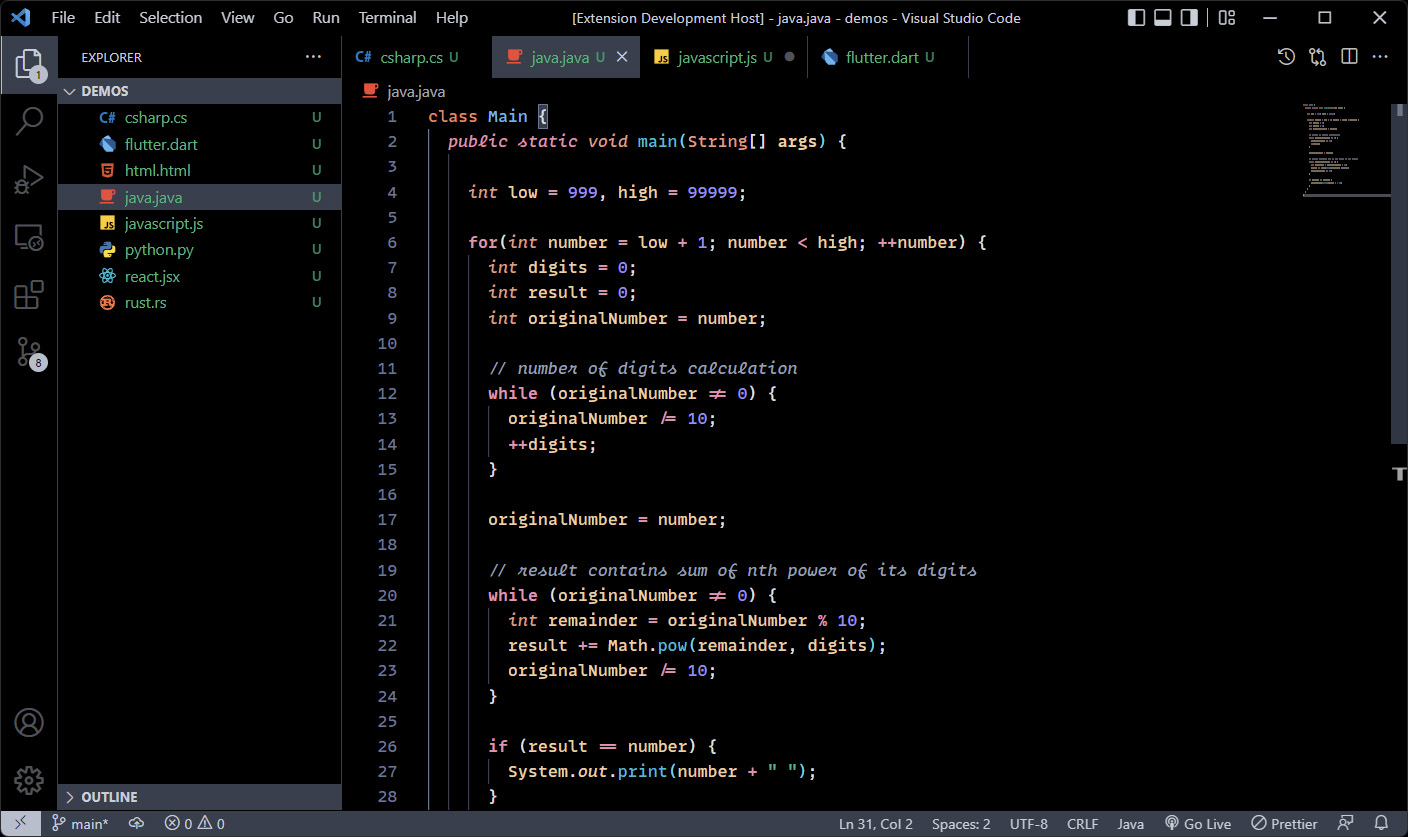
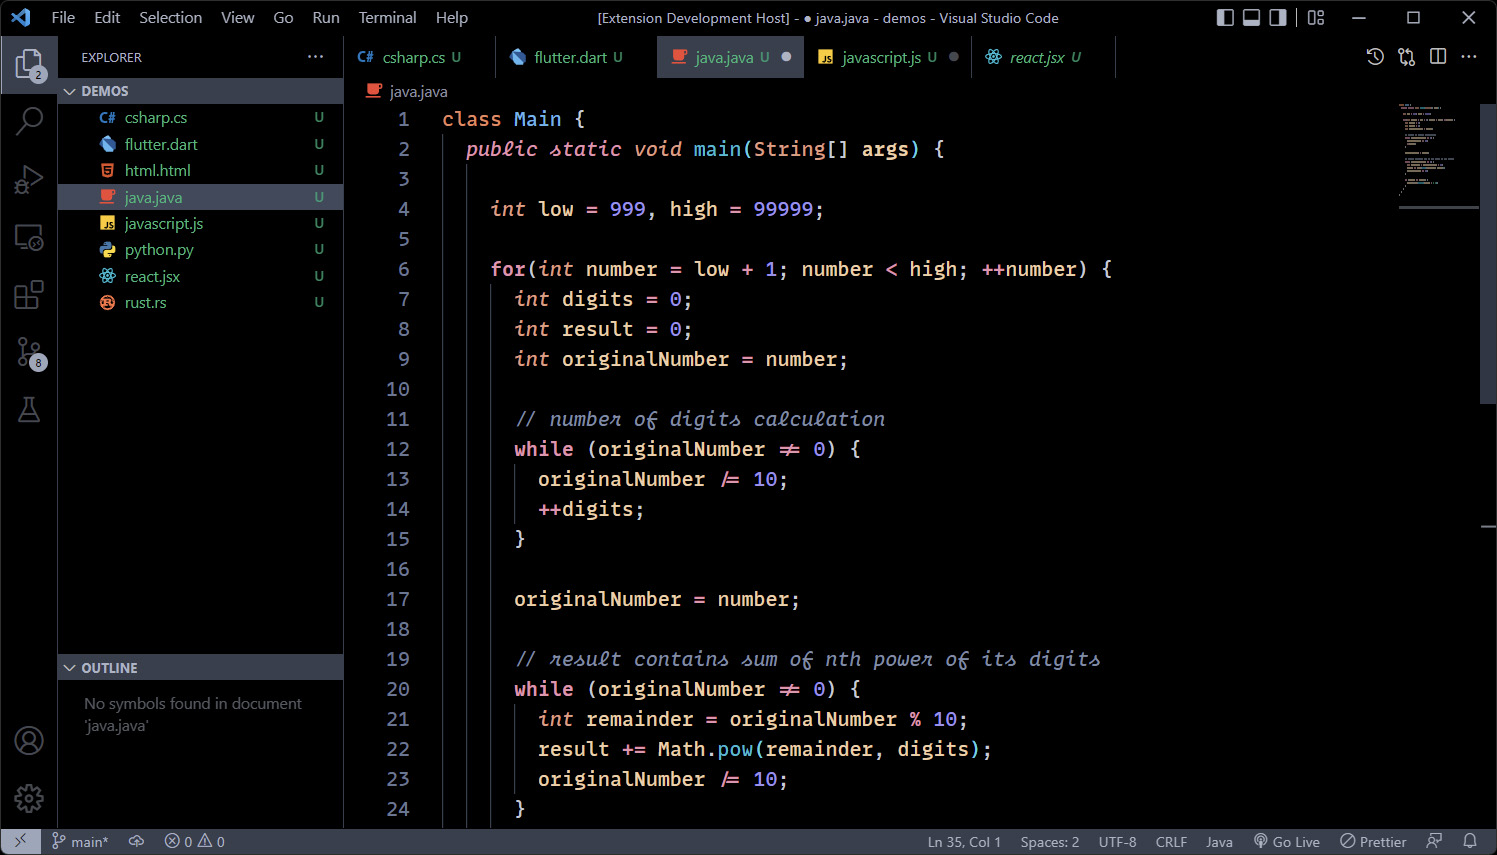
adjust editor text colors

diff --git a/demos/react.jsx b/demos/react.jsx
@@ -6,6 +6,7 @@ function CandyDispenser() {
 	const dispense = (candy) => {
 		setCandies((allCandies) => allCandies.filter((c) => c !== candy));
 	};
+
 	return (
 		<div>
 			<h1>Candy Dispenser</h1>

diff --git a/CHANGELOG.md b/CHANGELOG.md
@@ -4,6 +4,10 @@ All notable changes to the "arctis" extension will be documented in this file.
 
 Check [Keep a Changelog](http://keepachangelog.com/) for recommendations on how to structure this file.
 
+## [2.1.3] - 05-08-2022
+
+- Darken white text on UI colors slightly, as it was overpowering syntax colors.
+
 ## [2.1.2] - 05-08-2022
 
 - Github issue: Reduce brightness of bracket match border (#5). Slightly darken UI text to reduce distraction from editor (#6).
